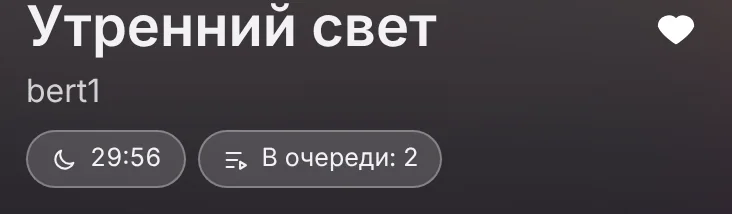
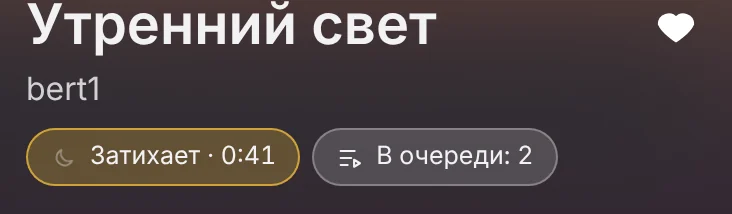
Таймер сна: плавное минутное затихание, кнопка на виду; импорт из других приложений; плавный свайп вниз
- Блок «Затихает очень медленно»: демо теперь плавная кривая за 8 секунд
  вместо 16 ступенек за 3 секунды; новые скриншоты меню таймера и кнопки.
- Жест «Вниз»: на демо плеер уезжает и под ним проявляется библиотека.
- В установке новый блок «Музыка из других приложений» для Android,
  компьютера и iPhone; в списке функций добавлен пункт.

Claude-Session: https://claude.ai/code/session_01AEjqvHxcoceQ79MP18yXuW

diff --git a/index.html b/index.html
@@ -162,15 +162,21 @@ h3{font-size:clamp(23px,2.3vw,30px);line-height:1.15}
 .g-phone .cover-move{position:absolute;left:6.15%;top:9.19%;width:87.7%;height:40.5%;border-radius:10px;overflow:hidden;opacity:0}
 .g-phone .cover-move img{width:100%;height:100%;object-fit:cover}
 .g-phone[data-g=swipe] .cover-move{opacity:1;animation:swipeL 1.6s .15s var(--ease) both}
-.g-phone[data-g=down] .cover-move{opacity:1;animation:swipeD 1.6s .15s var(--ease) both}
+.g-phone .dn{position:absolute;inset:0;opacity:0;background:#101014}
+.g-phone .dn img{position:absolute;inset:0;width:100%;height:100%;object-fit:cover}
+.g-phone .dn-pl{box-shadow:0 -14px 34px rgba(0,0,0,.45)}
+.g-phone[data-g=down] .dn{opacity:1}
+.g-phone[data-g=down] .dn-pl{animation:plD 1.9s .1s both}
+.g-phone[data-g=down] .dn-lib{animation:libD 1.9s .1s both}
+@keyframes plD{0%,12%{transform:none;animation-timing-function:linear}50%{transform:translateY(34%);animation-timing-function:cubic-bezier(.2,.75,.25,1)}78%,100%{transform:translateY(101%)}}
+@keyframes libD{0%,12%{transform:scale(.94);opacity:.5;animation-timing-function:linear}50%{transform:scale(.96);opacity:.68;animation-timing-function:cubic-bezier(.2,.75,.25,1)}78%,100%{transform:none;opacity:1}}
 @keyframes swipeL{0%{transform:none}45%{transform:translateX(-70%) rotate(-5deg);opacity:.25}55%{transform:translateX(60%);opacity:0}100%{transform:none;opacity:1}}
-@keyframes swipeD{0%{transform:none}50%{transform:translateY(40%);opacity:.3}51%{opacity:0;transform:translateY(-10%)}100%{transform:none;opacity:1}}
 .hand{position:absolute;width:15%;aspect-ratio:1;border-radius:50%;background:rgba(255,200,61,.9);border:3px solid var(--ink);opacity:0;translate:-50% -50%}
 .g-phone[data-g=swipe] .h-swipe{animation:handL 1.6s .15s var(--ease) both}
 .g-phone[data-g=down] .h-down{animation:handD 1.6s .15s var(--ease) both}
-.h-swipe{left:75%;top:42%} .h-down{left:50%;top:18%}
+.h-swipe{left:75%;top:42%} .h-down{left:50%;top:30%}
 @keyframes handL{0%{opacity:0;left:75%}12%{opacity:1}60%{opacity:1;left:22%}75%,100%{opacity:0;left:22%}}
-@keyframes handD{0%{opacity:0;top:18%}12%{opacity:1}60%{opacity:1;top:44%}75%,100%{opacity:0;top:44%}}
+@keyframes handD{0%{opacity:0;top:30%}12%{opacity:1;top:30%;animation-timing-function:linear}50%{opacity:1;top:64%}60%,100%{opacity:0;top:64%}}
 .g-hint{font:700 12px/1.4 var(--mono);letter-spacing:.14em;text-transform:uppercase;color:var(--lilac);margin-top:28px;text-align:center}
 @media(max-width:999px){.g-col.left{text-align:left}.g-col.left .gl.on,.g-col.right .gl.on{transform:none}.g-phone{order:-1}}
 
@@ -225,7 +231,7 @@ h3{font-size:clamp(23px,2.3vw,30px);line-height:1.15}
 .z-blocks p{margin-top:8px;font-size:clamp(17px,1.6vw,20px)}
 .fade-demo{display:grid;gap:14px;margin-top:6px}
 .fbars{display:flex;align-items:flex-end;gap:clamp(4px,.8vw,9px);height:110px}
-.fbars i{flex:1;max-width:24px;background:var(--ink);border-radius:3px 3px 0 0;transition:opacity .18s,background .18s}
+.fbars i{flex:1;max-width:18px;background:var(--ink);border-radius:3px 3px 0 0;transition:opacity .35s,background .35s}
 .fbars i.off{opacity:.18}
 .fbars i.now{background:var(--paper)}
 .fd-row{display:flex;align-items:center;gap:14px;flex-wrap:wrap}
@@ -282,6 +288,16 @@ h3{font-size:clamp(23px,2.3vw,30px);line-height:1.15}
 .after{margin-top:34px;padding-top:24px;border-top:3px solid var(--ink);display:grid;gap:18px;align-items:center}
 @media(min-width:900px){.after{grid-template-columns:1fr auto}}
 .linkbox{display:flex;flex-wrap:wrap;align-items:center;gap:10px;background:var(--ink);color:var(--paper);border-radius:999px;padding:8px 8px 8px 20px;max-width:100%}
+.share{margin-top:34px;display:grid;gap:18px}
+.share h3{font-size:clamp(26px,2.6vw,34px)}
+.share>p{font-size:clamp(17px,1.6vw,19px);max-width:62ch}
+.sh-grid{display:grid;gap:16px}
+@media(min-width:900px){.sh-grid{grid-template-columns:repeat(3,1fr)}}
+.sh{background:var(--paper2);border:2.5px solid var(--ink);border-radius:20px;padding:22px 24px;display:grid;gap:8px;align-content:start}
+.sh b{font:700 13px/1.3 var(--mono);letter-spacing:.14em;text-transform:uppercase}
+.sh p{font-size:clamp(17px,1.6vw,19px)}
+.sh i{font-style:normal;font-weight:600}
+.sh:nth-child(1) b{color:var(--blue)} .sh:nth-child(2) b{color:var(--green)} .sh:nth-child(3) b{color:var(--red)}
 .linkbox code{font:700 15px/1.3 var(--mono);overflow-wrap:anywhere;min-width:0}
 
 /* ---------- 12. все функции ---------- */
@@ -455,13 +471,14 @@ kbd{font:700 13px/1 var(--mono);background:var(--paper);color:var(--ink);border-
         <img src="img/ph-player.webp" alt="Экран плеера с крупной обложкой" width="660" height="1428" loading="lazy">
         <div class="ov">
           <div class="cover-move"><img src="img/cover-sun.webp" alt="" width="500" height="500"></div>
+          <div class="dn"><img class="dn-lib" src="img/ph-lib.webp" alt="" width="660" height="1428" loading="lazy"><img class="dn-pl" src="img/ph-player.webp" alt="" width="660" height="1428" loading="lazy"></div>
           <span class="tap t-left">2×</span><span class="tap t-right">2×</span><span class="tap t-center">2×</span>
           <span class="flash f-left">−10 с</span><span class="flash f-right">+10 с</span><span class="flash f-center">♥ в избранном</span>
           <span class="hand h-swipe"></span><span class="hand h-down"></span>
         </div>
       </figure>
       <div class="g-col right">
-        <button class="gl" data-g="down" type="button"><b>Вниз</b><span>обратно к списку</span></button>
+        <button class="gl" data-g="down" type="button"><b>Вниз</b><span>плеер плавно уезжает к списку</span></button>
         <button class="gl" data-g="right" type="button"><b>Двойное касание справа</b><span>вперёд на 10 секунд</span></button>
         <button class="gl" data-g="center" type="button"><b>Двойное касание в центре</b><span>трек в избранное</span></button>
       </div>
@@ -547,17 +564,17 @@ kbd{font:700 13px/1 var(--mono);background:var(--paper);color:var(--ink);border-
         <div class="rv"><h3>Выключит музыку сам</h3><p>Через 10, 20, 30, 45 или 60 минут. Не нужно просыпаться, чтобы нажать паузу.</p></div>
         <div class="rv"><h3>Или в конце трека</h3><p>Песня доиграет до конца и не оборвётся на середине.</p></div>
         <div class="rv">
-          <h3>Тихо, без щелчка</h3>
-          <p>Последние три секунды громкость плавно уходит в ноль, шаг за шагом.</p>
+          <h3>Затихает очень медленно</h3>
+          <p>Последнюю минуту громкость уходит в ноль так плавно, что момент тишины не слышно.</p>
           <div class="fade-demo">
             <div class="fbars" id="fbars" aria-hidden="true"></div>
-            <div class="fd-row"><button class="btn btn-small" id="fadeBtn" type="button">▶ Послушать затухание</button><span class="fd-lbl">16 шагов за 3 секунды</span></div>
+            <div class="fd-row"><button class="btn btn-small" id="fadeBtn" type="button">▶ Послушать затухание</button><span class="fd-lbl">минута затихания за 8 секунд</span></div>
           </div>
         </div>
         <div class="rv">
-          <h3>Время всегда видно</h3>
-          <p>Оно написано под названием трека. Нажмите на него, чтобы поменять время или выключить таймер.</p>
-          <div class="badge-shot"><img src="img/badge.webp" alt="Под названием трека: значок луны и 29:56 до выключения" width="732" height="214" loading="lazy"></div>
+          <h3>Кнопка всегда на виду</h3>
+          <p>«Таймер сна» стоит прямо под названием трека. Пока таймер идёт, на кнопке обратный отсчёт, а в последнюю минуту надпись «Затихает».</p>
+          <div class="badge-shot"><img src="img/badge.webp" alt="Под названием трека: кнопка «Затихает · 0:41» и «В очереди: 2»" width="732" height="214" loading="lazy"></div>
         </div>
       </div>
     </div>
@@ -622,6 +639,15 @@ kbd{font:700 13px/1 var(--mono);background:var(--paper);color:var(--ink);border-
     <div class="after rv">
       <p style="font-size:clamp(18px,1.7vw,21px);max-width:60ch">После установки у плеера своя иконка, он открывается на весь экран, а музыкой можно управлять с экрана блокировки.</p>
       <div class="linkbox"><code id="plink">berezovskija124-ctrl.github.io/playerofic</code><button class="btn btn-sun btn-small" id="copyBtn" type="button">Скопировать</button></div>
+    </div>
+    <div class="share rv">
+      <h3>Музыка из других приложений</h3>
+      <p>Трек, который прислали в мессенджере или скачали в браузере, не нужно искать по папкам.</p>
+      <div class="sh-grid">
+        <div class="sh"><b>Android</b><p>Нажмите <i>«Поделиться»</i> на файле в Telegram, «Файлах» или браузере и выберите <i>«Офлайн-плеер»</i>. Трек сразу окажется в библиотеке.</p></div>
+        <div class="sh"><b>Компьютер</b><p>Правой кнопкой по файлу: <i>«Открыть с помощью»</i> → <i>«Офлайн-плеер»</i>. Или просто перетащите файлы в окно плеера.</p></div>
+        <div class="sh"><b>iPhone</b><p>Сохраните трек через <i>«Сохранить в Файлы»</i>, потом в плеере нажмите <i>«Добавить»</i> и выберите его.</p></div>
+      </div>
     </div>
   </div>
 </section>
@@ -737,8 +763,9 @@ if(!reduce&&!(window.CSS&&CSS.supports&&CSS.supports('animation-timeline: view()
 
 /* ---------- таймер сна: затухание ---------- */
 (function(){
-  const box=$('#fbars'),btn=$('#fadeBtn');const N=16;
-  for(let k=0;k<N;k++){const i=document.createElement('i');i.style.height=Math.max(6,100*(1-k/N))+'%';box.appendChild(i)}
+  const box=$('#fbars'),btn=$('#fadeBtn');const N=30,T=8,G=.16;
+  const ease=x=>x*x*(3-2*x),amp=x=>Math.pow(10,-56*ease(x)/20);
+  for(let k=0;k<N;k++){const i=document.createElement('i');i.style.height=Math.max(4,100*(1-ease(k/(N-1))))+'%';box.appendChild(i)}
   const bars=[...box.children];let busy=false,ac=null;
   btn.addEventListener('click',async()=>{
     if(busy)return;busy=true;btn.disabled=true;btn.textContent='Играет…';
@@ -748,19 +775,19 @@ if(!reduce&&!(window.CSS&&CSS.supports&&CSS.supports('animation-timeline: view()
       ac=ac||new (window.AudioContext||window.webkitAudioContext)();
       if(ac.state==='suspended')await ac.resume();
       g=ac.createGain();g.gain.value=0;g.connect(ac.destination);
-      const now=ac.currentTime;g.gain.linearRampToValueAtTime(.16,now+.25);
+      g.gain.linearRampToValueAtTime(G,ac.currentTime+.25);
       [220,277.18,329.63,440].forEach((f,k)=>{const o=ac.createOscillator();o.type=k===3?'sine':'triangle';o.frequency.value=f;const og=ac.createGain();og.gain.value=k===3?.35:.55;o.connect(og);og.connect(g);o.start();oscs.push(o)});
     }catch(e){g=null}
     await new Promise(r=>setTimeout(r,1500));
     btn.textContent='Затихает…';
-    for(let k=1;k<=N;k++){
-      const v=.16*(1-k/N);
-      if(g){g.gain.cancelScheduledValues(ac.currentTime);g.gain.setValueAtTime(v,ac.currentTime)}
-      bars.forEach((b,j)=>{b.classList.toggle('now',j===k-1);if(j<k-1)b.classList.add('off')});
-      await new Promise(r=>setTimeout(r,180));
-    }
+    if(g){const c=new Float32Array(240);for(let k=0;k<c.length;k++)c[k]=G*amp(k/(c.length-1));
+      try{const t=ac.currentTime;g.gain.cancelScheduledValues(t);g.gain.setValueCurveAtTime(c,t,T)}catch(e){}}
+    const t0=performance.now();
+    await new Promise(done=>{(function frame(){const x=Math.min(1,(performance.now()-t0)/(T*1000)),k=Math.floor(x*N);
+      bars.forEach((b,j)=>{b.classList.toggle('off',j<k);b.classList.toggle('now',j===k)});
+      if(x<1)requestAnimationFrame(frame);else done()})()});
     bars.forEach(b=>{b.classList.add('off');b.classList.remove('now')});
-    oscs.forEach(o=>{try{o.stop()}catch(e){}});
+    oscs.forEach(o=>{try{o.stop(ac.currentTime+.05)}catch(e){}});
     btn.textContent='Музыка остановлена';
     setTimeout(()=>{bars.forEach(b=>b.classList.remove('off'));btn.textContent='▶ Послушать ещё раз';btn.disabled=false;busy=false},1600);
   });
@@ -810,6 +837,7 @@ if(!reduce&&!(window.CSS&&CSS.supports&&CSS.supports('animation-timeline: view()
    ['lib','Подборки','«Микс дня», «Недавние» и «Часто слушаю» плеер собирает сам.'],
    ['lib','Свои плейлисты','Создать, переименовать, удалить. Треки отмечаются галочками из общего списка.'],
    ['lib','Меню трека','Три точки, долгое нажатие на телефоне или правая кнопка мыши на компьютере.'],
+   ['lib','Из другого приложения','«Поделиться» → «Офлайн-плеер» на Android, «Открыть с помощью» на компьютере.'],
    ['lib','Своё название','Исправьте название или исполнителя, если в файле ошибка. Плеер это запомнит.'],
    ['lib','Своя обложка','Любая картинка из галереи вместо обложки трека.'],
    ['play','Слушать и Перемешать','Две большие кнопки запускают всю библиотеку подряд или вперемешку.'],
@@ -817,9 +845,9 @@ if(!reduce&&!(window.CSS&&CSS.supports&&CSS.supports('animation-timeline: view()
    ['play','Волна трека','Нажмите на волну в плеере, чтобы перемотать в нужное место.'],
    ['play','Перемешивание и повтор','Повтор всего списка или одного трека. Без повтора каждый трек звучит один раз.'],
    ['play','Очередь «Далее»','«Играть следующим» и «Добавить в очередь». Список видно по кнопке наверху плеера.'],
-   ['play','Жесты','Смахнуть обложку, смахнуть вниз, двойное касание по краям и в центре.'],
+   ['play','Жесты','Смахнуть обложку, плавно смахнуть плеер вниз к списку, двойное касание по краям и в центре.'],
    ['play','Продолжение с места','Плеер помнит трек и секунду. Кнопка на главном экране становится «Продолжить».'],
-   ['play','Таймер сна','10, 20, 30, 45, 60 минут или до конца трека. Музыка затихает плавно.'],
+   ['play','Таймер сна','Кнопка всегда под названием трека. 10–60 минут или до конца трека, в конце музыка очень плавно затихает.'],
    ['play','Скорость','От 0,5× до 2×, в меню «⋯» в плеере.'],
    ['play','Экран блокировки','Пауза, переключение и перемотка из шторки телефона и кнопками наушников.'],
    ['snd','Эквалайзер','10 полос от 31 Гц до 16 кГц, ±12 дБ. Режимы: Плоский, Бас, Вокал, Высокие, Рок.'],
